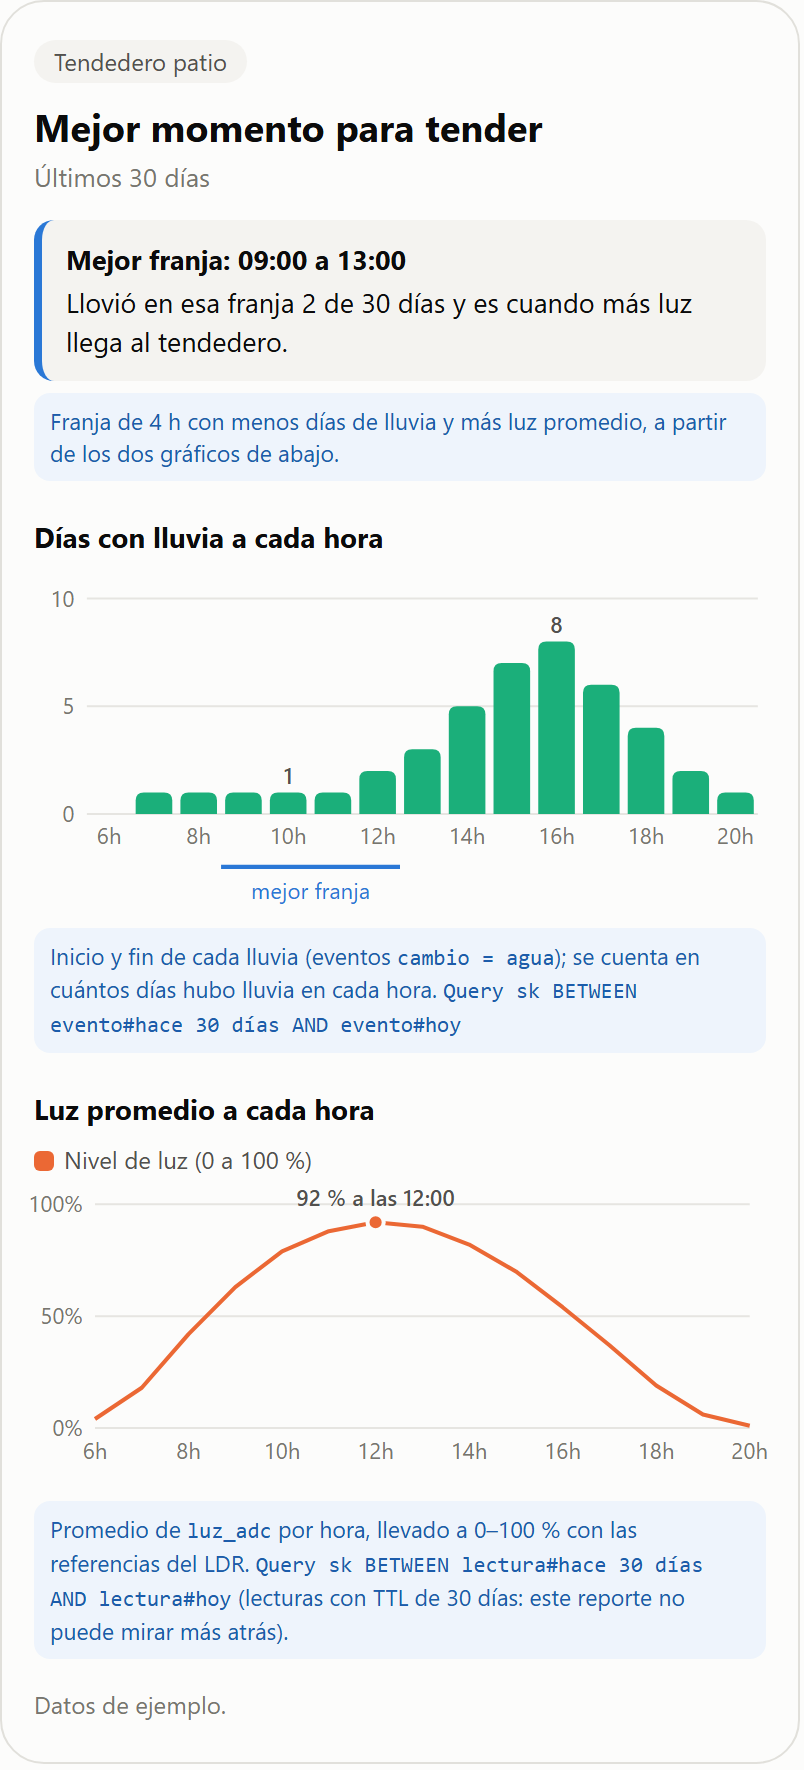
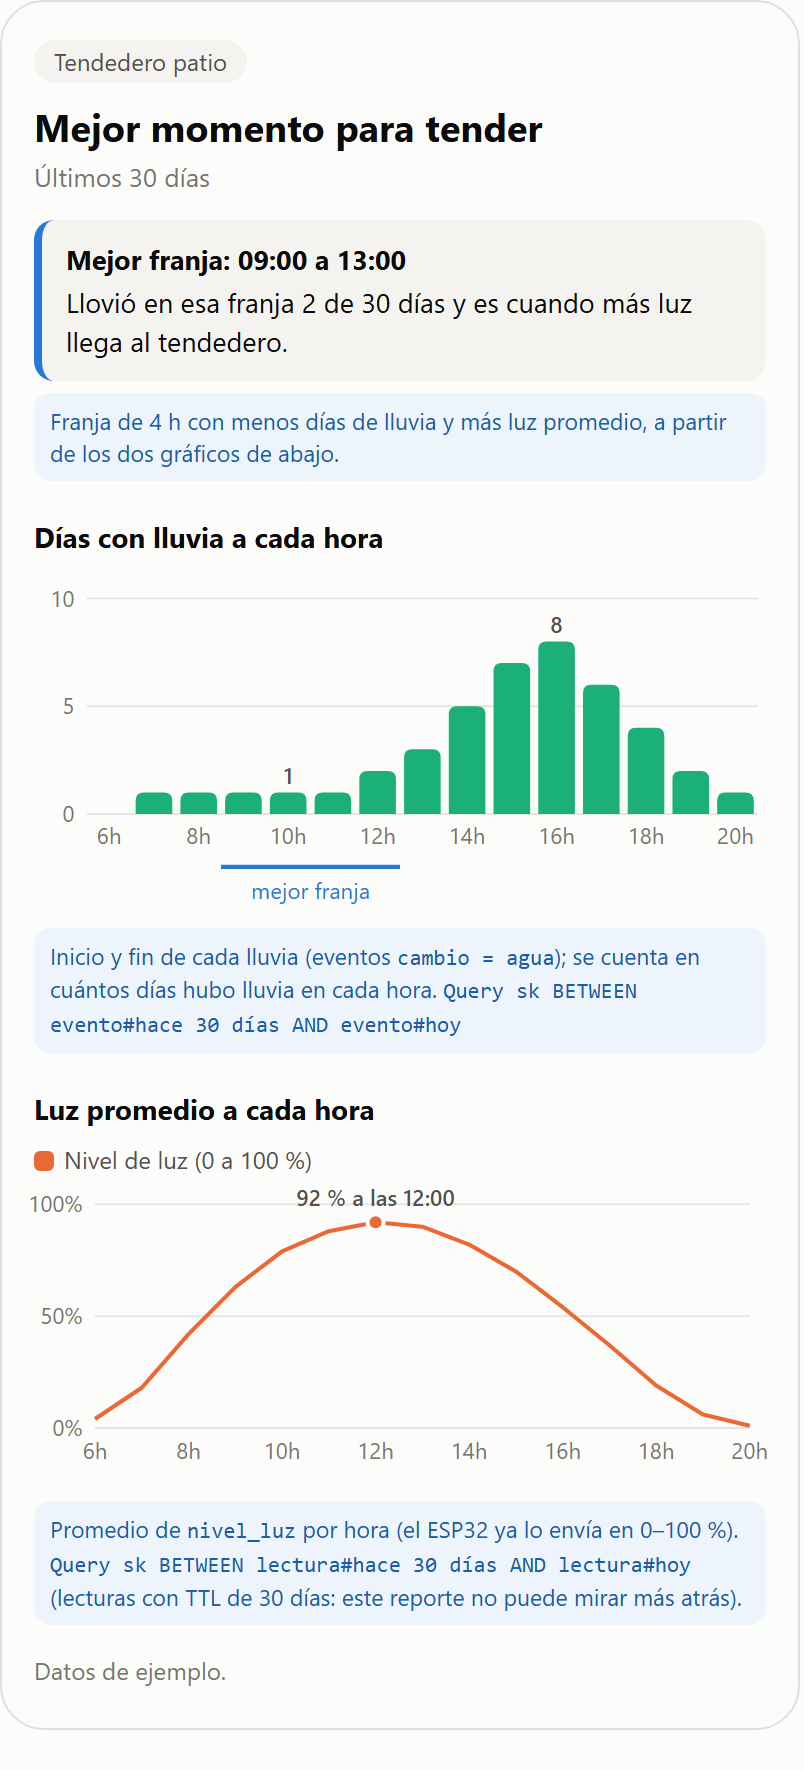
fix: correcciones menores y revision de coherencia
- Firmware: el ESP32 reporta nivel_luz (0-100 %) en lugar de luz_adc; la Nube
  no conoce las referencias del LDR. SensorLuz::nivel no divide por cero sin
  referencias y el nivel solo se calcula con el LDR instalado (sin esto, un
  ESP32 sin LDR se reiniciaba).
- Lambda de Alexa: permisos de IoT restringidos a thing/tendedero-*; los
  mensajes de modo y espera mencionan la luz (R2 solo expone de dia).
- Scripts de la P3 movidos a tools/practica3/ (observacion de la P3);
  grabar_rnf.py en tools/ con los comandos de la P4.
- verificar_aws detecta luz_adc y desired.origen_led sin migrar.
- Guia manual: politica con IoT restringido y respaldo, limpieza de Shadows
  en el orden de pasos y alerta de facturacion (seccion 10).

Changed region(s): [[0.0311, 0.839, 0.9639, 1.0], [0.9639, 0.9633, 0.995, 0.9944], [0.0, 0.9633, 0.0311, 0.9944]]

diff --git a/docs/practica4/mockups/reportes.html b/docs/practica4/mockups/reportes.html
@@ -165,7 +165,7 @@
     <h3>Luz promedio a cada hora</h3>
     <div class="leyenda"><span><i style="background:var(--series-2)"></i>Nivel de luz (0 a 100 %)</span></div>
     <svg id="lineaLuz" viewBox="0 0 360 150" role="img" aria-label="Nivel de luz promedio por hora"></svg>
-    <div class="fuente">Promedio de <code>luz_adc</code> por hora, llevado a 0–100 % con las referencias del LDR. <code>Query sk BETWEEN lectura#hace 30 días AND lectura#hoy</code> (lecturas con TTL de 30 días: este reporte no puede mirar más atrás).</div>
+    <div class="fuente">Promedio de <code>nivel_luz</code> por hora (el ESP32 ya lo envía en 0–100 %). <code>Query sk BETWEEN lectura#hace 30 días AND lectura#hoy</code> (lecturas con TTL de 30 días: este reporte no puede mirar más atrás).</div>
     <div class="ficticio">Datos de ejemplo.</div>
   </section>
 

diff --git a/tests/p4/test_almacenamiento.py b/tests/p4/test_almacenamiento.py
@@ -56,13 +56,13 @@ class AlmacenamientoTests(unittest.TestCase):
 
     def test_lectura_guarda_solo_los_sensores(self):
         """Posicion, modo, origen y LED ya estan en los eventos: no se repiten en cada lectura."""
-        self.handler(self.lectura(origen="voz", minutos_reexponer=30, luz_adc=900, oscuro=False,
+        self.handler(self.lectura(origen="voz", minutos_reexponer=30, nivel_luz=90, oscuro=False,
                                   led="apagado", origen_led="voz"), None)
         item = self.tabla.items[0]
         for campo in ("posicion", "modo", "origen", "minutos_reexponer", "led", "origen_led"):
             self.assertNotIn(campo, item)
-        self.assertEqual((int(item["lectura_adc"]), item["agua_detectada"], int(item["luz_adc"]), item["oscuro"]),
-                         (120, False, 900, False))
+        self.assertEqual((int(item["lectura_adc"]), item["agua_detectada"], int(item["nivel_luz"]), item["oscuro"]),
+                         (120, False, 90, False))
 
     def test_lectura_invalida_se_descarta_aunque_el_campo_no_se_guarde(self):
         self.handler(self.lectura(modo="turbo"), None)
@@ -136,15 +136,16 @@ class LuzAutomaticaTests(unittest.TestCase):
         self.tabla = self.aws.table(TABLA)
 
     def test_lectura_guarda_la_luz_pero_no_el_led(self):
-        self.handler({"reported": {"lectura_adc": 10, "luz_adc": 640, "oscuro": True, "led": "encendido",
+        self.handler({"reported": {"lectura_adc": 10, "nivel_luz": 64, "oscuro": True, "led": "encendido",
                                    "origen_led": "edge"},
                       "thingName": "tendedero-uno", "ts": AHORA_MS}, None)
         item = self.tabla.items[0]
-        self.assertEqual((int(item["luz_adc"]), item["oscuro"]), (640, True))
+        self.assertEqual((int(item["nivel_luz"]), item["oscuro"]), (64, True))
         self.assertNotIn("led", item, "el LED es un actuador: se registra en sus eventos")
 
     def test_descarta_luz_invalida(self):
-        for malo in ({"luz_adc": 9000}, {"oscuro": "si"}, {"led": "prendido"}, {"luz_simulada": 1}):
+        for malo in ({"nivel_luz": 101}, {"nivel_luz": "alto"}, {"oscuro": "si"}, {"led": "prendido"},
+                     {"luz_simulada": 1}):
             self.handler({"reported": {"lectura_adc": 10, **malo}, "thingName": "tendedero-uno",
                           "ts": AHORA_MS}, None)
         self.assertEqual(self.tabla.items, [])

diff --git a/tools/grabar_rnf.py b/tools/grabar_rnf.py
@@ -8,12 +8,20 @@ desconectaría al ESP32. La confirmación de AWS se toma de la línea serie
 "[SHADOW] reported aceptado", que el firmware imprime al recibir update/accepted.
 
 Con el firmware de ensayo (entorno tendedero_ensayo) estas palabras se envían al ESP32:
-  abrir | cerrar  -> publica desired.cubierta (se registra la marca 'envio' y 'orden')
-  estado          -> pide el Shadow y lo imprime (se registra la marca 'consulta')
+  exponer | resguardar -> publica desired.posicion (se registra la marca 'envio' y 'orden')
+  auto | manual        -> publica desired.modo
+  led_on | led_off     -> publica desired.led (luz para recoger la ropa)
+  ldr_oscuro | ldr_claro | ldr_real -> simula la noche, el día o vuelve al LDR
+  calibrar_seco | calibrar_mojado   -> pide una calibración
+  wifi_off | wifi_on   -> corta o restablece el Wi-Fi
+  estado               -> pide el Shadow y lo imprime (se registra la marca 'consulta')
 Cualquier otra palabra se guarda solo como marca: est_ini, est_fin, final, seco, agua,
-wifi_off, wifi_on, power_off, power_on...
+power_off, power_on...
 
-Uso:  python grabar_rnf.py --puerto COM3 --salida rnf-02.csv
+Para las pruebas automáticas usar probar_esp32.py; este script sirve para ensayos
+manuales libres. Su CSV lo leen medir_intervalos.py y medir_almacenamiento.py.
+
+Uso:  python tools/grabar_rnf.py --puerto COM3 --salida rnf-02.csv
 """
 import argparse
 import csv
@@ -29,7 +37,11 @@ ap.add_argument("--baud", type=int, default=115200)
 ap.add_argument("--salida", default="rnf-eventos.csv")
 a = ap.parse_args()
 
-COMANDOS = {"abrir": ("envio", "orden"), "cerrar": ("envio", "orden"), "estado": ("consulta",)}
+COMANDOS = {"exponer": ("envio", "orden"), "resguardar": ("envio", "orden"), "estado": ("consulta",),
+            "auto": ("modo",), "manual": ("modo",), "led_on": ("luz",), "led_off": ("luz",),
+            "ldr_oscuro": ("ldr",), "ldr_claro": ("ldr",), "ldr_real": ("ldr",),
+            "calibrar_seco": ("calibracion",), "calibrar_mojado": ("calibracion",),
+            "wifi_off": ("wifi",), "wifi_on": ("wifi",)}
 
 lock = threading.Lock()
 f = open(a.salida, "a", newline="", encoding="utf-8")

diff --git a/lambda/lambda_function.py b/lambda/lambda_function.py
@@ -663,7 +663,7 @@ class ConsultarModoHandler(AbstractRequestHandler):
             phrase = "El tendedero está en modo {}.".format("automático" if modo == "automatico" else "manual")
             minutos = reported.get("minutos_reexponer")
             if modo == "automatico" and isinstance(minutos, int):
-                phrase += " Vuelve a exponer la ropa después de {} minutos sin agua.".format(minutos)
+                phrase += " Resguarda la ropa si llueve o anochece, y la vuelve a exponer después de {} minutos sin agua, cuando hay luz.".format(minutos)
             pedido = state.get("desired", {}).get("modo")
             if pedido in MODOS and pedido != modo:
                 phrase += " Hay un cambio pendiente a modo {}.".format("automático" if pedido == "automatico" else "manual")
@@ -682,7 +682,7 @@ class ConfigurarEsperaHandler(AbstractRequestHandler):
             if minutos is None or not MINUTOS_MIN <= minutos <= MINUTOS_MAX:
                 return _answer(handler_input, "Dime un tiempo entre {} y {} minutos. Por ejemplo: espera treinta minutos para volver a exponer.".format(MINUTOS_MIN, MINUTOS_MAX))
             ShadowService().request_wait(thing_name, minutos)
-            return _answer(handler_input, "Listo. En modo automático, la ropa volverá a exponerse después de {} minutos sin agua.".format(minutos))
+            return _answer(handler_input, "Listo. En modo automático, la ropa volverá a exponerse después de {} minutos sin agua, cuando haya luz.".format(minutos))
         return _run_safe(handler_input, work)
 
 

diff --git a/tests/firmware_host/test_cliente_shadow.cpp b/tests/firmware_host/test_cliente_shadow.cpp
@@ -152,11 +152,11 @@ static void luz_automatica() {
   Telemetria t;
   t.lecturaAdc = 100; t.agua = 0; t.posicion = Posicion::Resguardado; t.modo = Modo::Automatico;
   t.minutosReexponer = 30; t.origen = Origen::Edge;
-  t.luzInstalada = true; t.luzAdc = 640; t.oscuro = 1; t.led = Luz::Encendida; t.origenLed = Origen::Edge;
+  t.luzInstalada = true; t.nivelLuz = 64; t.oscuro = 1; t.led = Luz::Encendida; t.origenLed = Origen::Edge;
   EstadoCalibracion cal; cal.umbralSeco = 200; cal.umbralAgua = 600; cal.revision = 2;
   reloj += 70000;
   shadow.reportar(reloj, t, cal);
-  CHECK(publicado(BASE + "/update", "\"luz_adc\":640,\"oscuro\":true"), "reported lleva luz_adc y oscuro");
+  CHECK(publicado(BASE + "/update", "\"nivel_luz\":64,\"oscuro\":true"), "reported lleva nivel_luz y oscuro");
   CHECK(publicado(BASE + "/update", "\"led\":\"encendido\",\"origen_led\":\"edge\""),
         "reported lleva led y origen_led");
 #ifdef MODO_ENSAYO_RNF
@@ -169,7 +169,7 @@ static void luz_automatica() {
   sinLuz.luzInstalada = false; sinLuz.led = Luz::Desconocida; sinLuz.origenLed = Origen::Ninguno;
   reloj += 70000;
   shadow.reportar(reloj, sinLuz, cal);
-  CHECK(!publicado(BASE + "/update", "luz_adc") && !publicado(BASE + "/update", "\"led\""),
+  CHECK(!publicado(BASE + "/update", "nivel_luz") && !publicado(BASE + "/update", "\"led\""),
         "sin LDR ni LED no se reportan sus campos");
 }
 

diff --git a/tools/verificar_aws.py b/tools/verificar_aws.py
@@ -32,8 +32,10 @@ from pathlib import Path
 
 RAIZ = Path(__file__).resolve().parents[1]
 ZIP = RAIZ / "lambda" / "lambda_deployment_p3.zip"
-ATRIBUTOS_P3 = ("cubierta", "sensor_raw")
-ATRIBUTOS_P4 = ("posicion", "agua_detectada", "lectura_adc", "calibracion")
+# Atributos que ya no se usan: los de la P3 y los que se quitaron en la P4
+# (luz_adc -> nivel_luz; desired.origen_led). Los borra shadow-migracion-practica4.json.
+ATRIBUTOS_P3 = ("cubierta", "sensor_raw", "luz_adc", "origen_led@desired")
+ATRIBUTOS_P4 = ("posicion", "agua_detectada", "lectura_adc", "calibracion", "modo", "minutos_reexponer")
 
 
 class Verificador:
@@ -168,7 +170,8 @@ class Verificador:
             return None
         rep = doc.get("state", {}).get("reported", {})
         des = doc.get("state", {}).get("desired", {})
-        viejos = [x for x in ATRIBUTOS_P3 if x in rep or x in des]
+        viejos = [x for x in ATRIBUTOS_P3 if ("@desired" in x and x.split("@")[0] in des)
+                  or ("@" not in x and (x in rep or x in des))]
         self.anotar("Shadow", f"{thing} sin atributos de la P3", not viejos, viejos or "")
         return doc
 

diff --git a/firmware/src/ClienteShadow.cpp b/firmware/src/ClienteShadow.cpp
@@ -533,10 +533,10 @@ void ClienteShadow::reportar(unsigned long ahora, const Telemetria& telemetria,
     usados += snprintf(operacion + usados, sizeof(operacion) - usados, ",\"origen\":\"%s\"",
                        nombre(telemetria.origen));
   }
-  // Luz automatica: lectura del LDR, clasificacion, estado del LED y su origen.
+  // LDR: nivel de luz (0..100 %) y si es de noche; despues, el LED y su origen.
   if (telemetria.luzInstalada && usados < static_cast<int>(sizeof(operacion))) {
     usados += snprintf(operacion + usados, sizeof(operacion) - usados,
-                       ",\"luz_adc\":%d,\"oscuro\":%s", telemetria.luzAdc,
+                       ",\"nivel_luz\":%d,\"oscuro\":%s", telemetria.nivelLuz,
                        telemetria.oscuro < 0 ? "null" : (telemetria.oscuro ? "true" : "false"));
 #ifdef MODO_ENSAYO_RNF
     // Solo en el perfil de ensayo, que es el unico que simula la luz.

diff --git a/lambda/almacenamiento/lambda_function.py b/lambda/almacenamiento/lambda_function.py
@@ -83,7 +83,7 @@ VALIDADORES = {
     "origen": lambda v: _opcion(v, ORIGENES, "origen"),
     "ts_dispositivo": lambda v: _entero(v, 1, 10**14, "ts_dispositivo"),
     # Luz automatica (LDR + LED).
-    "luz_adc": lambda v: _entero(v, 0, 4095, "luz_adc"),
+    "nivel_luz": lambda v: _entero(v, 0, 100, "nivel_luz"),
     "oscuro": lambda v: _booleano(v, "oscuro"),
     "led": lambda v: _opcion(v, ESTADOS_LED, "led"),
     "origen_led": lambda v: _opcion(v, ORIGENES, "origen_led"),
@@ -92,7 +92,7 @@ VALIDADORES = {
 
 
 # Campos de los sensores: lo unico que guarda una lectura.
-SENSORES = ("lectura_adc", "agua_detectada", "luz_adc", "oscuro", "luz_simulada", "ts_dispositivo")
+SENSORES = ("lectura_adc", "agua_detectada", "nivel_luz", "oscuro", "luz_simulada", "ts_dispositivo")
 # Contexto que se guarda con cada evento de posicion: por que se movio.
 CONTEXTO_POSICION = ("agua_detectada", "oscuro")
 

diff --git a/firmware/include/ClienteShadow.h b/firmware/include/ClienteShadow.h
@@ -14,11 +14,11 @@ struct Telemetria {
   Modo modo = Modo::Ninguno;   // Ninguno = no se reporta (perfiles de diagnostico).
   int minutosReexponer = 0;    // 0 = no se reporta.
   Origen origen = Origen::Ninguno; // Quien pidio el ultimo movimiento.
-  // Luz automatica (P4). Sin LDR no se reportan luz_adc ni oscuro;
+  // LDR (P4). Sin LDR no se reportan nivel_luz ni oscuro;
   // sin LED (Desconocida) no se reportan led ni origen_led.
   bool luzInstalada = false;
   bool luzSimulada = false; // Ensayo sin LDR: se marca para no mezclarlo con datos reales.
-  int luzAdc = 0;
+  int nivelLuz = 0; // 0..100 %, ya normalizado con las referencias del LDR.
   int oscuro = -1; // -1 sin dato, 0 claro, 1 oscuro.
   Luz led = Luz::Desconocida;
   Origen origenLed = Origen::Ninguno;

diff --git a/firmware/src/Tendedero.cpp b/firmware/src/Tendedero.cpp
@@ -422,7 +422,14 @@ void loop() {
   telemetria.origen = origen;
   telemetria.luzInstalada = ldr.instalado() || luzSimulada >= 0;
   telemetria.luzSimulada = luzSimulada >= 0;
-  telemetria.luzAdc = luzRaw;
+  // Nivel 0..100 %: la Nube no conoce las referencias del LDR, asi que se envia
+  // ya normalizado (el reporte de luz por hora lo usa directamente).
+  // Sin LDR no se calcula: con referencias invalidas nivel() dividiria por cero.
+  if (luzSimulada >= 0) {
+    telemetria.nivelLuz = luzSimulada ? 0 : 100;
+  } else if (ldr.instalado()) {
+    telemetria.nivelLuz = constrain(static_cast<int>(ldr.nivel(luzRaw) / 10), 0, 100);
+  }
   telemetria.oscuro = oscuro;
   telemetria.led = LED_INSTALADO ? led.estado() : Luz::Desconocida;
   telemetria.origenLed = origenLed;

diff --git a/tests/test_herramientas_nube.py b/tests/test_herramientas_nube.py
@@ -199,6 +199,7 @@ def clientes_ok(**cambios):
             "IOT_ENDPOINT": "abc-ats.iot.us-east-2.amazonaws.com", "DDB_BINDINGS_TABLE": "tendedero_vinculaciones",
             "DDB_DEVICES_TABLE": "tendedero_dispositivos"})}}
     reported = cambios.get("reported", {"posicion": "expuesto", "agua_detectada": False, "lectura_adc": 3,
+                                        "modo": "automatico", "minutos_reexponer": 30,
                                         "calibracion": {"umbral_seco": 200, "umbral_agua": 600, "estado": "fabrica"}})
     estado = {"tendedero-inteligente": {"state": {"reported": reported},
                                         "metadata": {"reported": {"lectura_adc": {"timestamp": cambios.get("ts", time.time() - 30)}}}},

diff --git a/tests/firmware_host/test_logica_edge.cpp b/tests/firmware_host/test_logica_edge.cpp
@@ -74,6 +74,7 @@ static void r5() {
 static void sensor_luz() {
   SensorLuz sin(-1, -1);
   CHECK(!sin.instalado() && sin.actualizar(100, 0) == -1, "LDR sin referencias: no instalado, sin dato");
+  CHECK(sin.nivel(100) == 0, "LDR sin referencias: nivel 0, sin dividir por cero");
   CHECK(!SensorLuz(1000, 1100).instalado(), "referencias demasiado cercanas se rechazan");
   // Divisor que SUBE con la luz: claro 3000, oscuro 500 (nivel 0..1000).
   SensorLuz s(3000, 500);
